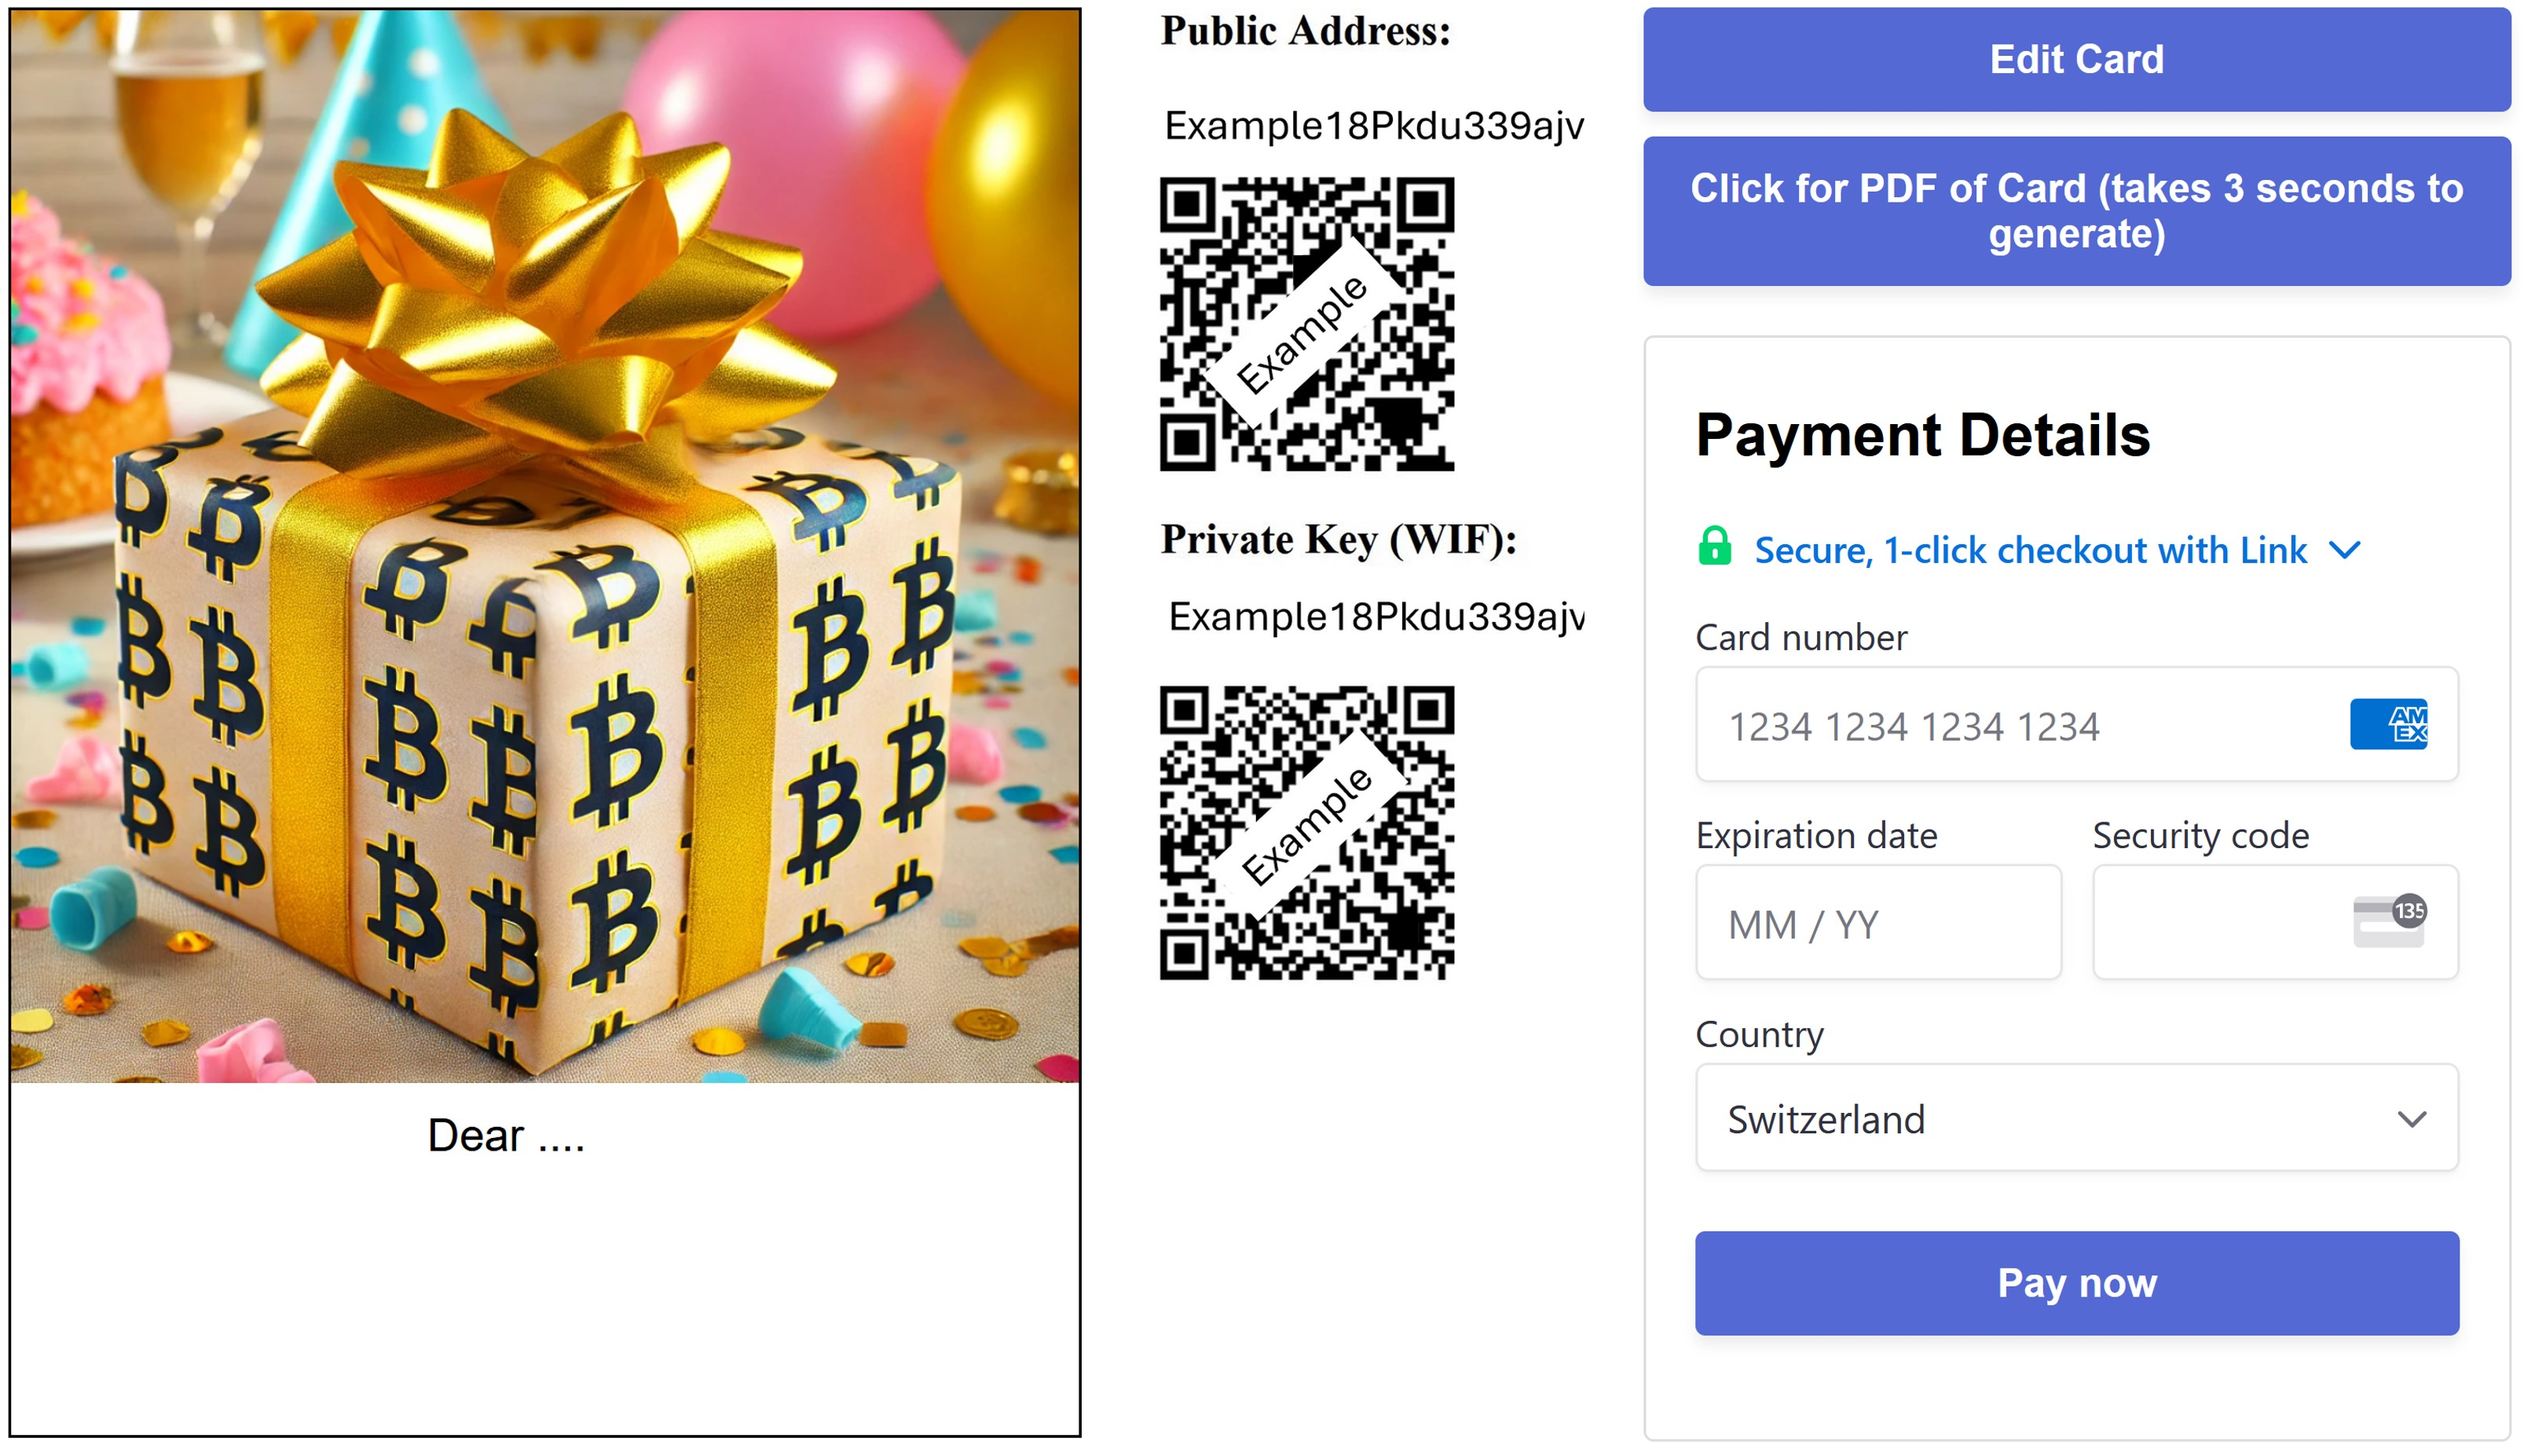
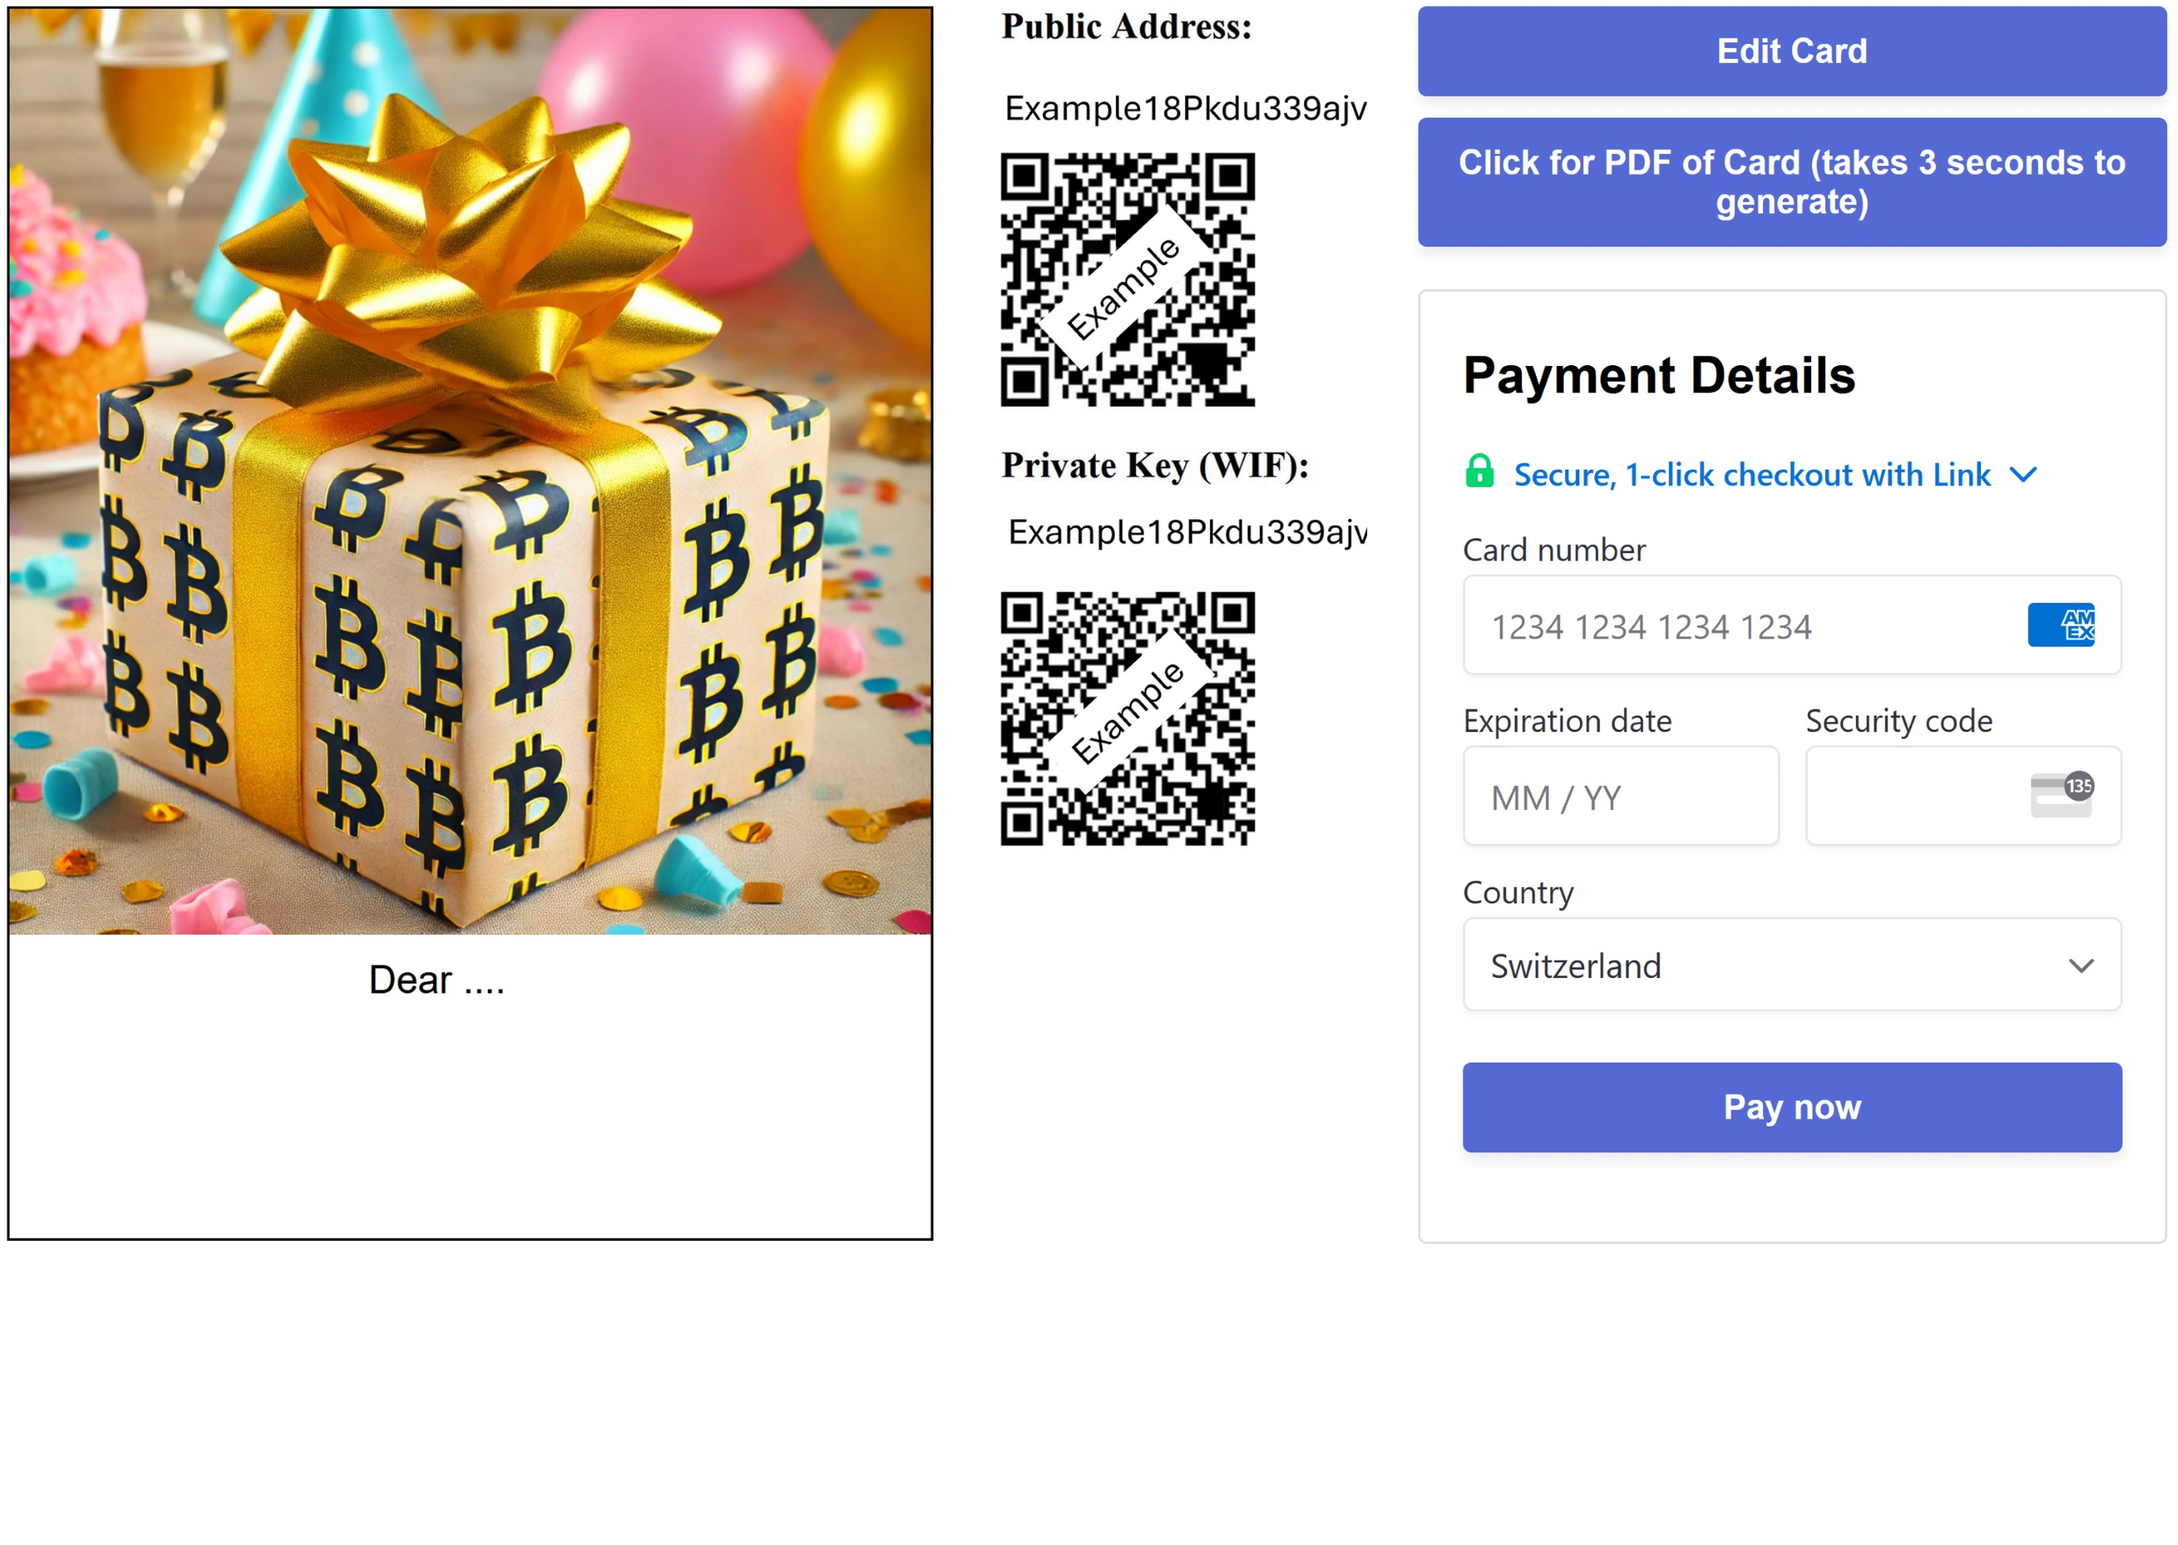
0031b landing page animation 13

diff --git a/default.html b/default.html
@@ -24,11 +24,11 @@
 
     .animated-images-container {
       position: absolute;
-      width: 50%;
-      height: 25%; /* Adjusted to keep proportional to giftbox size */
-      left: 50%; /* Horizontally centered */
-      transform: translateX(-50%); /* Correct centering */
-      bottom: 20px; /* 20px above the bottom edge of the giftbox */
+      width: 70%; /* Adjusted proportionally to fit inside giftbox */
+      height: 60%; /* Set to 60% of the giftbox size */
+      top: 20%; /* Positioned at an optimal vertical position */
+      left: 50%; /* Center horizontally within the giftbox */
+      transform: translateX(-50%);
       display: flex;
       justify-content: center;
       align-items: center;
